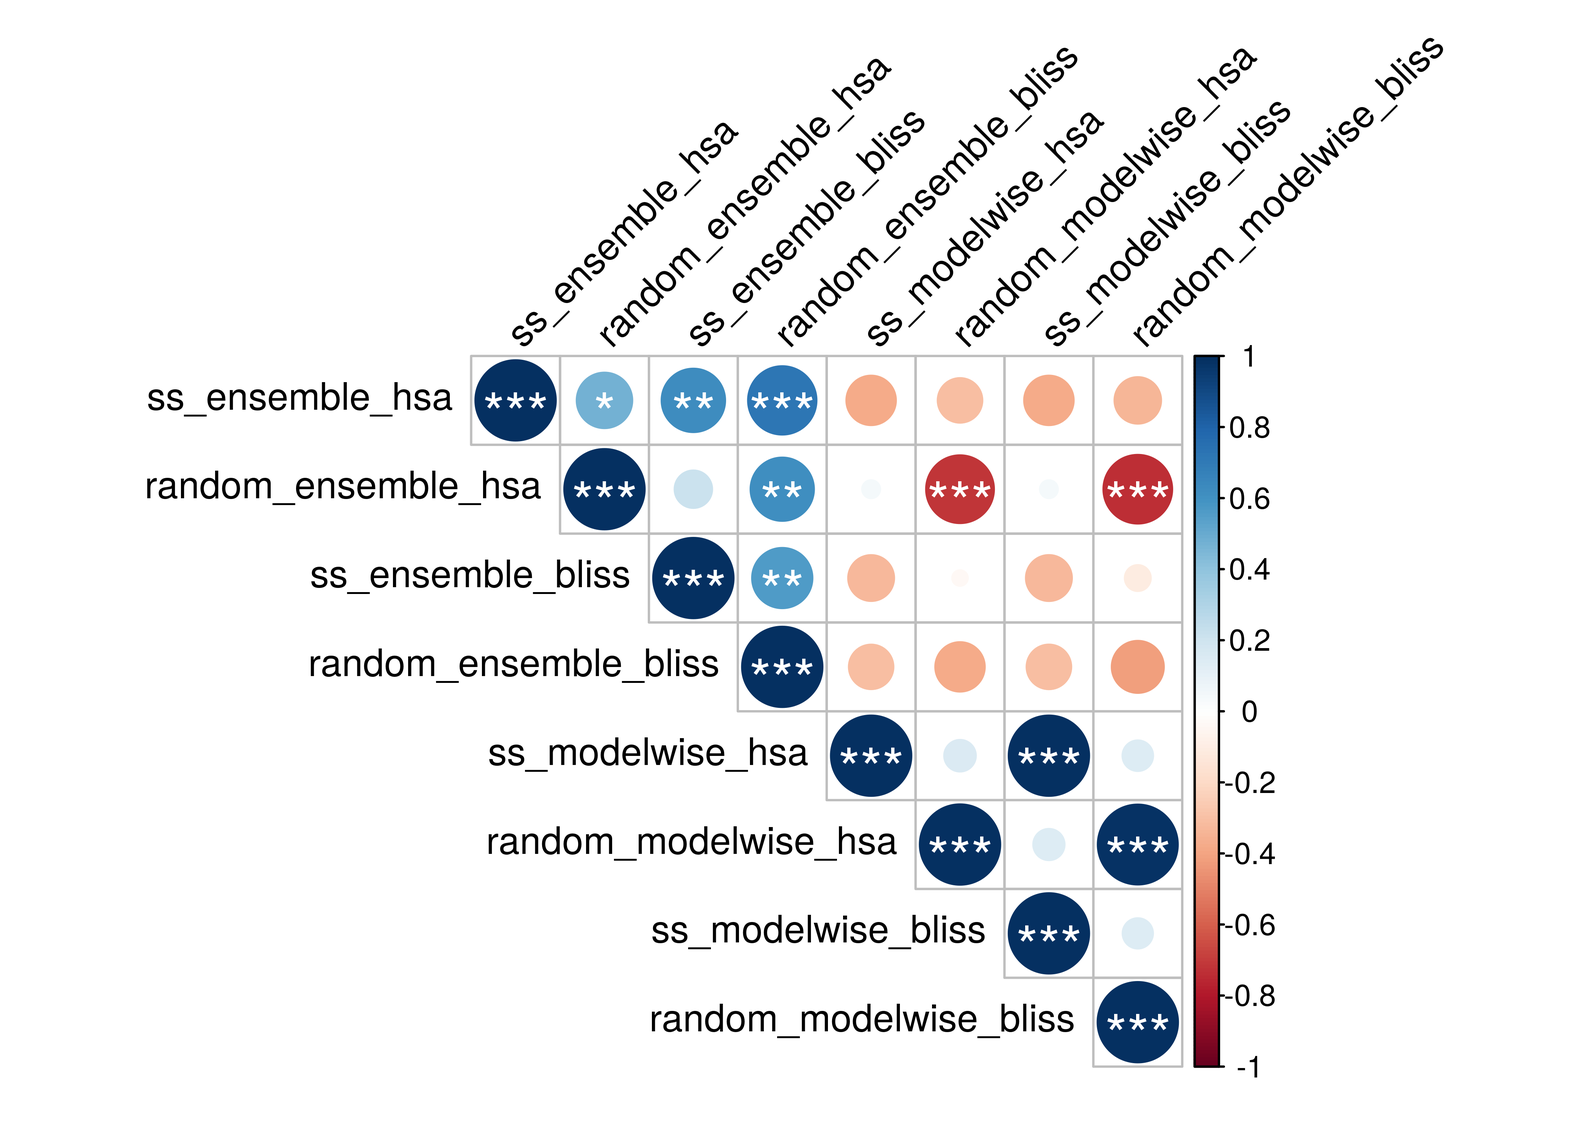
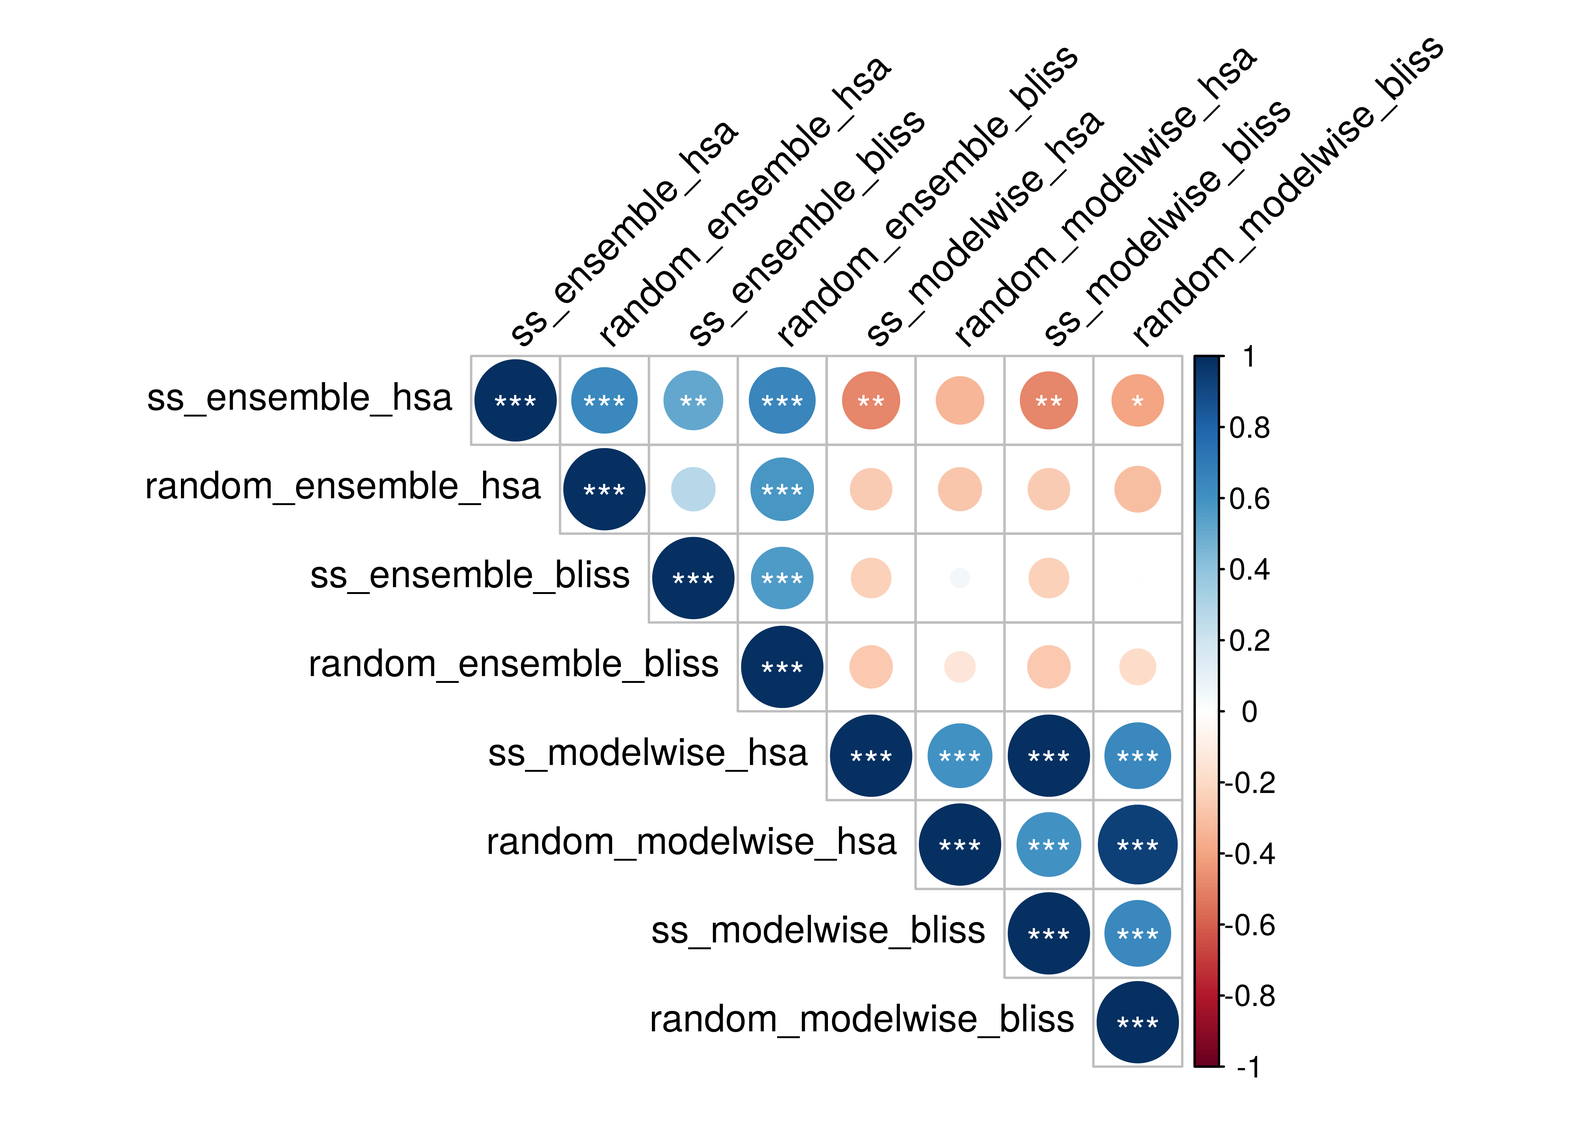
update cache and docs

diff --git a/docs/main.html b/docs/main.html
@@ -886,6 +886,7 @@ code span.wa { color: #60a0b0; font-weight: bold; font-style: italic; } /* Warni
 <li class="chapter" data-level="" data-path=""><a href="#roc-curves-3"><i class="fa fa-check"></i>ROC curves</a></li>
 <li class="chapter" data-level="" data-path=""><a href="#roc-auc-sensitivity-3"><i class="fa fa-check"></i>ROC AUC sensitivity</a></li>
 </ul></li>
+<li class="chapter" data-level="" data-path=""><a href="#correlation-1"><i class="fa fa-check"></i>Correlation</a></li>
 <li class="chapter" data-level="" data-path=""><a href="#fitness-vs-performance"><i class="fa fa-check"></i>Fitness vs performance</a></li>
 </ul></li>
 <li class="chapter" data-level="" data-path=""><a href="#reproduce-simulation-results"><i class="fa fa-check"></i>Reproduce simulation results</a>
@@ -1205,7 +1206,7 @@ code span.wa { color: #60a0b0; font-weight: bold; font-style: italic; } /* Warni
 <h2>Correlation</h2>
 <p>We test for correlation between all the results shown in the ROC curves.
 This means <em>ensemble-wise</em> vs <em>model-wise</em>, <em>random</em> models vs <em>calibrated (ss)</em> models and <em>HSA</em> vs <em>Bliss</em> synergy assessment.
-<em>P-values</em> are represented at 3 significant levels: <span class="math inline">\(0.05, 0.01, 0.001\)</span> (*, **, ***)</p>
+<em>P-values</em> are represented at 3 significant levels: <span class="math inline">\(0.05, 0.01, 0.001\)</span> (*, **, ***) and the correlation coefficient is calculated using Kendall’s <em>tau</em> statistic.</p>
 <div class="sourceCode" id="cb10"><pre class="sourceCode r"><code class="sourceCode r"><span id="cb10-1"><a href="#cb10-1"></a>synergy_scores =<span class="st"> </span><span class="kw">bind_cols</span>(</span>
 <span id="cb10-2"><a href="#cb10-2"></a>  pred_ew_hsa <span class="op">%&gt;%</span><span class="st"> </span><span class="kw">select</span>(ss_score, random_score) <span class="op">%&gt;%</span><span class="st"> </span><span class="kw">rename</span>(<span class="dt">ss_ensemble_hsa =</span> ss_score, <span class="dt">random_ensemble_hsa =</span> random_score),</span>
 <span id="cb10-3"><a href="#cb10-3"></a>  pred_ew_bliss <span class="op">%&gt;%</span><span class="st"> </span><span class="kw">select</span>(ss_score, random_score) <span class="op">%&gt;%</span><span class="st"> </span><span class="kw">rename</span>(<span class="dt">ss_ensemble_bliss =</span> ss_score, <span class="dt">random_ensemble_bliss =</span> random_score),</span>
@@ -1215,16 +1216,15 @@ This means <em>ensemble-wise</em> vs <em>model-wise</em>, <em>random</em> models
 <span id="cb10-7"><a href="#cb10-7"></a><span class="st">    </span><span class="kw">rename</span>(<span class="dt">ss_modelwise_bliss =</span> synergy_prob_ss, <span class="dt">random_modelwise_bliss =</span> synergy_prob_random)</span>
 <span id="cb10-8"><a href="#cb10-8"></a>  )</span>
 <span id="cb10-9"><a href="#cb10-9"></a></span>
-<span id="cb10-10"><a href="#cb10-10"></a>M =<span class="st"> </span><span class="kw">cor</span>(synergy_scores)</span>
-<span id="cb10-11"><a href="#cb10-11"></a>res =<span class="st"> </span><span class="kw">cor.mtest</span>(synergy_scores)</span>
+<span id="cb10-10"><a href="#cb10-10"></a>M =<span class="st"> </span><span class="kw">cor</span>(synergy_scores, <span class="dt">method =</span> <span class="st">&quot;kendall&quot;</span>)</span>
+<span id="cb10-11"><a href="#cb10-11"></a>res =<span class="st"> </span><span class="kw">cor.mtest</span>(synergy_scores, <span class="dt">method =</span> <span class="st">&quot;kendall&quot;</span>)</span>
 <span id="cb10-12"><a href="#cb10-12"></a><span class="kw">corrplot</span>(<span class="dt">corr =</span> M, <span class="dt">type =</span> <span class="st">&quot;upper&quot;</span>, <span class="dt">p.mat =</span> res<span class="op">$</span>p, <span class="dt">sig.level =</span> <span class="kw">c</span>(.<span class="dv">001</span>, <span class="fl">.01</span>, <span class="fl">.05</span>), </span>
-<span id="cb10-13"><a href="#cb10-13"></a>  <span class="dt">pch.cex =</span> <span class="fl">1.5</span>, <span class="dt">pch.col =</span> <span class="st">&quot;white&quot;</span>, <span class="dt">insig =</span> <span class="st">&quot;label_sig&quot;</span>, <span class="dt">tl.col =</span> <span class="st">&quot;black&quot;</span>, <span class="dt">tl.srt =</span> <span class="dv">45</span>)</span></code></pre></div>
+<span id="cb10-13"><a href="#cb10-13"></a>  <span class="dt">pch.cex =</span> <span class="dv">1</span>, <span class="dt">pch.col =</span> <span class="st">&quot;white&quot;</span>, <span class="dt">insig =</span> <span class="st">&quot;label_sig&quot;</span>, <span class="dt">tl.col =</span> <span class="st">&quot;black&quot;</span>, <span class="dt">tl.srt =</span> <span class="dv">45</span>)</span></code></pre></div>
 <p><img src="index_files/figure-html/Correlation%20of%20ROC%20results%20(Cascade%201.0)-1.png" width="2100" /></p>
 <div class="green-box">
 <ul>
-<li><strong>HSA and Bliss results correlate</strong> for both the model-wise and the ensemble-wise results</li>
-<li><strong>Model-wise results are in general different than the ensemble-wise ones</strong>.
-Only strong correlation is seen between the random models and not the calibrated ones.</li>
+<li><strong>HSA and Bliss results correlate</strong>, higher for the model-wise than the ensemble-wise results.</li>
+<li><strong>Model-wise don’t correlate with ensemble-wise results</strong>.</li>
 </ul>
 </div>
 </div>
@@ -1703,6 +1703,32 @@ We will combine the synergy scores from the random simulations with the results 
 </div>
 </div>
 </div>
+<div id="correlation-1" class="section level2 unnumbered" number="">
+<h2>Correlation</h2>
+<p>We test for correlation between some of the results shown in the ROC curves (the calibrated models are from the <span class="math inline">\(150\)</span> simulation results).
+This means <em>ensemble-wise</em> vs <em>model-wise</em>, <em>random</em> models vs <em>calibrated (ss)</em> models and <em>HSA</em> vs <em>Bliss</em> synergy assessment.
+<em>P-values</em> are represented at 3 significant levels: <span class="math inline">\(0.05, 0.01, 0.001\)</span> (*, **, ***) and the correlation coefficient is calculated using Kendall’s <em>tau</em> statistic.</p>
+<div class="sourceCode" id="cb20"><pre class="sourceCode r"><code class="sourceCode r"><span id="cb20-1"><a href="#cb20-1"></a>synergy_scores =<span class="st"> </span><span class="kw">bind_cols</span>(</span>
+<span id="cb20-2"><a href="#cb20-2"></a>  pred_ew_hsa <span class="op">%&gt;%</span><span class="st"> </span><span class="kw">select</span>(ss_score_100sim, random_score) <span class="op">%&gt;%</span><span class="st"> </span><span class="kw">rename</span>(<span class="dt">ss_ensemble_hsa =</span> ss_score_100sim, <span class="dt">random_ensemble_hsa =</span> random_score),</span>
+<span id="cb20-3"><a href="#cb20-3"></a>  pred_ew_bliss <span class="op">%&gt;%</span><span class="st"> </span><span class="kw">select</span>(ss_score_100sim, random_score) <span class="op">%&gt;%</span><span class="st"> </span><span class="kw">rename</span>(<span class="dt">ss_ensemble_bliss =</span> ss_score_100sim, <span class="dt">random_ensemble_bliss =</span> random_score),</span>
+<span id="cb20-4"><a href="#cb20-4"></a>  pred_mw_hsa <span class="op">%&gt;%</span><span class="st"> </span><span class="kw">select</span>(synergy_prob_ss_100sim, synergy_prob_random) <span class="op">%&gt;%</span><span class="st"> </span></span>
+<span id="cb20-5"><a href="#cb20-5"></a><span class="st">    </span><span class="kw">rename</span>(<span class="dt">ss_modelwise_hsa =</span> synergy_prob_ss_100sim, <span class="dt">random_modelwise_hsa =</span> synergy_prob_random),</span>
+<span id="cb20-6"><a href="#cb20-6"></a>  pred_mw_bliss <span class="op">%&gt;%</span><span class="st"> </span><span class="kw">select</span>(synergy_prob_ss_100sim, synergy_prob_random) <span class="op">%&gt;%</span><span class="st"> </span></span>
+<span id="cb20-7"><a href="#cb20-7"></a><span class="st">    </span><span class="kw">rename</span>(<span class="dt">ss_modelwise_bliss =</span> synergy_prob_ss_100sim, <span class="dt">random_modelwise_bliss =</span> synergy_prob_random)</span>
+<span id="cb20-8"><a href="#cb20-8"></a>  )</span>
+<span id="cb20-9"><a href="#cb20-9"></a></span>
+<span id="cb20-10"><a href="#cb20-10"></a>M =<span class="st"> </span><span class="kw">cor</span>(synergy_scores, <span class="dt">method =</span> <span class="st">&quot;kendall&quot;</span>)</span>
+<span id="cb20-11"><a href="#cb20-11"></a>res =<span class="st"> </span><span class="kw">cor.mtest</span>(<span class="dt">mat =</span> synergy_scores, <span class="dt">method =</span> <span class="st">&quot;kendall&quot;</span>)</span>
+<span id="cb20-12"><a href="#cb20-12"></a><span class="kw">corrplot</span>(<span class="dt">corr =</span> M, <span class="dt">type =</span><span class="st">&quot;upper&quot;</span>, <span class="dt">p.mat =</span> res<span class="op">$</span>p, <span class="dt">sig.level =</span> <span class="kw">c</span>(.<span class="dv">001</span>, <span class="fl">.01</span>, <span class="fl">.05</span>), </span>
+<span id="cb20-13"><a href="#cb20-13"></a>  <span class="dt">pch.cex =</span> <span class="dv">1</span>, <span class="dt">pch.col =</span> <span class="st">&quot;white&quot;</span>, <span class="dt">insig =</span> <span class="st">&quot;label_sig&quot;</span>, <span class="dt">tl.col =</span> <span class="st">&quot;black&quot;</span>, <span class="dt">tl.srt =</span> <span class="dv">45</span>)</span></code></pre></div>
+<p><img src="index_files/figure-html/Correlation%20of%20ROC%20results%20(Cascade%202.0)-1.png" width="2100" /></p>
+<div class="green-box">
+<ul>
+<li><strong>HSA and Bliss results correlate</strong>, especially for the model-wise results (ensemble-wise correlation is not as strong).</li>
+<li><strong>Model-wise don’t correlate with ensemble-wise results</strong>.</li>
+</ul>
+</div>
+</div>
 <div id="fitness-vs-performance" class="section level2 unnumbered" number="">
 <h2>Fitness vs performance</h2>
 <p>The idea here is to generate many training data files from the steady state as used in the simulations above for the AGS, where some of the nodes will have their states <em>flipped</em> to the opposite state (<span class="math inline">\(0\)</span> to <span class="math inline">\(1\)</span> and vice versa).
@@ -1758,7 +1784,7 @@ java -cp ../target/synergy-1.2.0-jar-with-dependencies.jar eu.druglogics.drabme.
 </div>
 <div id="r-session-info" class="section level1 unnumbered" number="">
 <h1>R session info</h1>
-<div class="sourceCode" id="cb23"><pre class="sourceCode r"><code class="sourceCode r"><span id="cb23-1"><a href="#cb23-1"></a>xfun<span class="op">::</span><span class="kw">session_info</span>()</span></code></pre></div>
+<div class="sourceCode" id="cb24"><pre class="sourceCode r"><code class="sourceCode r"><span id="cb24-1"><a href="#cb24-1"></a>xfun<span class="op">::</span><span class="kw">session_info</span>()</span></code></pre></div>
 <pre><code>R version 3.6.3 (2020-02-29)
 Platform: x86_64-pc-linux-gnu (64-bit)
 Running under: Ubuntu 18.04.4 LTS
@@ -1775,38 +1801,37 @@ Package version:
   assertthat_0.2.1    backports_1.1.6     base64enc_0.1.3    
   BH_1.72.0.3         bibtex_0.4.2.2      bookdown_0.18      
   callr_3.4.3         Ckmeans.1d.dp_4.3.2 cli_2.0.2          
-  clipr_0.7.0         codetools_0.2-16    colorspace_1.4-1   
-  compiler_3.6.3      corrplot_0.84       cowplot_1.0.0      
-  crayon_1.3.4        crosstalk_1.1.0.1   desc_1.2.0         
-  digest_0.6.25       dplyr_0.8.5         DT_0.13            
-  ellipsis_0.3.0      emba_0.1.4          evaluate_0.14      
-  fansi_0.4.1         farver_2.0.3        gbRd_0.4-11        
-  ggplot2_3.3.0       ggpubr_0.2.5        ggrepel_0.8.2      
-  ggsci_2.9           ggsignif_0.6.0      glue_1.4.0         
-  graphics_3.6.3      grDevices_3.6.3     grid_3.6.3         
-  gridExtra_2.3       gtable_0.3.0        highr_0.8          
-  hms_0.5.3           htmltools_0.4.0     htmlwidgets_1.5.1  
-  igraph_1.2.5        isoband_0.2.1       jsonlite_1.6.1     
-  knitr_1.28          labeling_0.3        later_1.0.0        
-  latex2exp_0.4.0     lattice_0.20.41     lazyeval_0.2.2     
-  lifecycle_0.2.0     magrittr_1.5        markdown_1.1       
-  MASS_7.3.51.5       Matrix_1.2.18       methods_3.6.3      
-  mgcv_1.8.31         mime_0.9            munsell_0.5.0      
-  nlme_3.1.145        pillar_1.4.3        pkgbuild_1.0.6     
-  pkgconfig_2.0.3     pkgload_1.0.2       plogr_0.2.0        
-  polynom_1.4.0       praise_1.0.0        prettyunits_1.1.1  
-  processx_3.4.2      promises_1.1.0      ps_1.3.2           
-  purrr_0.3.3         R6_2.4.1            RColorBrewer_1.1-2 
-  Rcpp_1.0.4.6        Rdpack_0.11-1       readr_1.3.1        
-  rje_1.10.15         rlang_0.4.5         rmarkdown_2.1      
-  rprojroot_1.3.2     rstudioapi_0.11     scales_1.1.0       
-  splines_3.6.3       stats_3.6.3         stringi_1.4.6      
-  stringr_1.4.0       testthat_2.3.2      tibble_3.0.0       
-  tidyr_1.0.2         tidyselect_1.0.0    tinytex_0.21       
-  tools_3.6.3         usefun_0.4.5        utf8_1.1.4         
-  utils_3.6.3         vctrs_0.2.4         viridisLite_0.3.0  
-  visNetwork_2.0.9    withr_2.1.2         xfun_0.12          
-  yaml_2.2.1         </code></pre>
+  clipr_0.7.0         colorspace_1.4-1    compiler_3.6.3     
+  corrplot_0.84       cowplot_1.0.0       crayon_1.3.4       
+  crosstalk_1.1.0.1   desc_1.2.0          digest_0.6.25      
+  dplyr_0.8.5         DT_0.13             ellipsis_0.3.0     
+  emba_0.1.4          evaluate_0.14       fansi_0.4.1        
+  farver_2.0.3        gbRd_0.4-11         ggplot2_3.3.0      
+  ggpubr_0.2.5        ggrepel_0.8.2       ggsci_2.9          
+  ggsignif_0.6.0      glue_1.4.0          graphics_3.6.3     
+  grDevices_3.6.3     grid_3.6.3          gridExtra_2.3      
+  gtable_0.3.0        highr_0.8           hms_0.5.3          
+  htmltools_0.4.0     htmlwidgets_1.5.1   igraph_1.2.5       
+  isoband_0.2.1       jsonlite_1.6.1      knitr_1.28         
+  labeling_0.3        later_1.0.0         latex2exp_0.4.0    
+  lattice_0.20.41     lazyeval_0.2.2      lifecycle_0.2.0    
+  magrittr_1.5        markdown_1.1        MASS_7.3.51.5      
+  Matrix_1.2.18       methods_3.6.3       mgcv_1.8.31        
+  mime_0.9            munsell_0.5.0       nlme_3.1.145       
+  pillar_1.4.3        pkgbuild_1.0.6      pkgconfig_2.0.3    
+  pkgload_1.0.2       plogr_0.2.0         polynom_1.4.0      
+  praise_1.0.0        prettyunits_1.1.1   processx_3.4.2     
+  promises_1.1.0      ps_1.3.2            purrr_0.3.3        
+  R6_2.4.1            RColorBrewer_1.1-2  Rcpp_1.0.4.6       
+  Rdpack_0.11-1       readr_1.3.1         rje_1.10.15        
+  rlang_0.4.5         rmarkdown_2.1       rprojroot_1.3.2    
+  rstudioapi_0.11     scales_1.1.0        splines_3.6.3      
+  stats_3.6.3         stringi_1.4.6       stringr_1.4.0      
+  testthat_2.3.2      tibble_3.0.0        tidyr_1.0.2        
+  tidyselect_1.0.0    tinytex_0.21        tools_3.6.3        
+  usefun_0.4.5        utf8_1.1.4          utils_3.6.3        
+  vctrs_0.2.4         viridisLite_0.3.0   visNetwork_2.0.9   
+  withr_2.1.2         xfun_0.12           yaml_2.2.1         </code></pre>
 </div>
 <div id="references" class="section level1 unnumbered" number="">
 <h1>References</h1>

diff --git a/docs/index.md b/docs/index.md
@@ -319,7 +319,7 @@ ggline(data = df_mw, x = "weights", y = "auc_values_mw", numeric.x.axis = TRUE,
 
 We test for correlation between all the results shown in the ROC curves.
 This means *ensemble-wise* vs *model-wise*, *random* models vs *calibrated (ss)* models and *HSA* vs *Bliss* synergy assessment.
-*P-values* are represented at 3 significant levels: $0.05, 0.01, 0.001$ (\*, \*\*, \*\*\*)
+*P-values* are represented at 3 significant levels: $0.05, 0.01, 0.001$ (\*, \*\*, \*\*\*) and the correlation coefficient is calculated using Kendall's *tau* statistic.
 
 
 ```r
@@ -332,18 +332,17 @@ synergy_scores = bind_cols(
     rename(ss_modelwise_bliss = synergy_prob_ss, random_modelwise_bliss = synergy_prob_random)
   )
 
-M = cor(synergy_scores)
-res = cor.mtest(synergy_scores)
+M = cor(synergy_scores, method = "kendall")
+res = cor.mtest(synergy_scores, method = "kendall")
 corrplot(corr = M, type = "upper", p.mat = res$p, sig.level = c(.001, .01, .05), 
-  pch.cex = 1.5, pch.col = "white", insig = "label_sig", tl.col = "black", tl.srt = 45)
+  pch.cex = 1, pch.col = "white", insig = "label_sig", tl.col = "black", tl.srt = 45)
 ```
 
 <img src="index_files/figure-html/Correlation of ROC results (Cascade 1.0)-1.png" width="2100" />
 
 :::{.green-box}
-- **HSA and Bliss results correlate** for both the model-wise and the ensemble-wise results
-- **Model-wise results are in general different than the ensemble-wise ones**. 
-Only strong correlation is seen between the random models and not the calibrated ones.
+- **HSA and Bliss results correlate**, higher for the model-wise than the ensemble-wise results.
+- **Model-wise don't correlate with ensemble-wise results**.
 :::
 
 ## Fitness Evolution {-}
@@ -854,8 +853,35 @@ ggline(data = df_mw, x = "weights", y = "auc_values_mw", numeric.x.axis = TRUE,
 - Using the $\beta$ parameter to boost the ensemble synergy results works only for the HSA results (not the Bliss-based ones)
 :::
 
+## Correlation {-}
+
+We test for correlation between some of the results shown in the ROC curves (the calibrated models are from the $150$ simulation results).
+This means *ensemble-wise* vs *model-wise*, *random* models vs *calibrated (ss)* models and *HSA* vs *Bliss* synergy assessment.
+*P-values* are represented at 3 significant levels: $0.05, 0.01, 0.001$ (\*, \*\*, \*\*\*) and the correlation coefficient is calculated using Kendall's *tau* statistic.
 
 
+```r
+synergy_scores = bind_cols(
+  pred_ew_hsa %>% select(ss_score_100sim, random_score) %>% rename(ss_ensemble_hsa = ss_score_100sim, random_ensemble_hsa = random_score),
+  pred_ew_bliss %>% select(ss_score_100sim, random_score) %>% rename(ss_ensemble_bliss = ss_score_100sim, random_ensemble_bliss = random_score),
+  pred_mw_hsa %>% select(synergy_prob_ss_100sim, synergy_prob_random) %>% 
+    rename(ss_modelwise_hsa = synergy_prob_ss_100sim, random_modelwise_hsa = synergy_prob_random),
+  pred_mw_bliss %>% select(synergy_prob_ss_100sim, synergy_prob_random) %>% 
+    rename(ss_modelwise_bliss = synergy_prob_ss_100sim, random_modelwise_bliss = synergy_prob_random)
+  )
+
+M = cor(synergy_scores, method = "kendall")
+res = cor.mtest(mat = synergy_scores, method = "kendall")
+corrplot(corr = M, type ="upper", p.mat = res$p, sig.level = c(.001, .01, .05), 
+  pch.cex = 1, pch.col = "white", insig = "label_sig", tl.col = "black", tl.srt = 45)
+```
+
+<img src="index_files/figure-html/Correlation of ROC results (Cascade 2.0)-1.png" width="2100" />
+
+:::{.green-box}
+- **HSA and Bliss results correlate**, especially for the model-wise results (ensemble-wise correlation is not as strong).
+- **Model-wise don't correlate with ensemble-wise results**.
+:::
 
 
 
@@ -950,38 +976,37 @@ Package version:
   assertthat_0.2.1    backports_1.1.6     base64enc_0.1.3    
   BH_1.72.0.3         bibtex_0.4.2.2      bookdown_0.18      
   callr_3.4.3         Ckmeans.1d.dp_4.3.2 cli_2.0.2          
-  clipr_0.7.0         codetools_0.2-16    colorspace_1.4-1   
-  compiler_3.6.3      corrplot_0.84       cowplot_1.0.0      
-  crayon_1.3.4        crosstalk_1.1.0.1   desc_1.2.0         
-  digest_0.6.25       dplyr_0.8.5         DT_0.13            
-  ellipsis_0.3.0      emba_0.1.4          evaluate_0.14      
-  fansi_0.4.1         farver_2.0.3        gbRd_0.4-11        
-  ggplot2_3.3.0       ggpubr_0.2.5        ggrepel_0.8.2      
-  ggsci_2.9           ggsignif_0.6.0      glue_1.4.0         
-  graphics_3.6.3      grDevices_3.6.3     grid_3.6.3         
-  gridExtra_2.3       gtable_0.3.0        highr_0.8          
-  hms_0.5.3           htmltools_0.4.0     htmlwidgets_1.5.1  
-  igraph_1.2.5        isoband_0.2.1       jsonlite_1.6.1     
-  knitr_1.28          labeling_0.3        later_1.0.0        
-  latex2exp_0.4.0     lattice_0.20.41     lazyeval_0.2.2     
-  lifecycle_0.2.0     magrittr_1.5        markdown_1.1       
-  MASS_7.3.51.5       Matrix_1.2.18       methods_3.6.3      
-  mgcv_1.8.31         mime_0.9            munsell_0.5.0      
-  nlme_3.1.145        pillar_1.4.3        pkgbuild_1.0.6     
-  pkgconfig_2.0.3     pkgload_1.0.2       plogr_0.2.0        
-  polynom_1.4.0       praise_1.0.0        prettyunits_1.1.1  
-  processx_3.4.2      promises_1.1.0      ps_1.3.2           
-  purrr_0.3.3         R6_2.4.1            RColorBrewer_1.1-2 
-  Rcpp_1.0.4.6        Rdpack_0.11-1       readr_1.3.1        
-  rje_1.10.15         rlang_0.4.5         rmarkdown_2.1      
-  rprojroot_1.3.2     rstudioapi_0.11     scales_1.1.0       
-  splines_3.6.3       stats_3.6.3         stringi_1.4.6      
-  stringr_1.4.0       testthat_2.3.2      tibble_3.0.0       
-  tidyr_1.0.2         tidyselect_1.0.0    tinytex_0.21       
-  tools_3.6.3         usefun_0.4.5        utf8_1.1.4         
-  utils_3.6.3         vctrs_0.2.4         viridisLite_0.3.0  
-  visNetwork_2.0.9    withr_2.1.2         xfun_0.12          
-  yaml_2.2.1         
+  clipr_0.7.0         colorspace_1.4-1    compiler_3.6.3     
+  corrplot_0.84       cowplot_1.0.0       crayon_1.3.4       
+  crosstalk_1.1.0.1   desc_1.2.0          digest_0.6.25      
+  dplyr_0.8.5         DT_0.13             ellipsis_0.3.0     
+  emba_0.1.4          evaluate_0.14       fansi_0.4.1        
+  farver_2.0.3        gbRd_0.4-11         ggplot2_3.3.0      
+  ggpubr_0.2.5        ggrepel_0.8.2       ggsci_2.9          
+  ggsignif_0.6.0      glue_1.4.0          graphics_3.6.3     
+  grDevices_3.6.3     grid_3.6.3          gridExtra_2.3      
+  gtable_0.3.0        highr_0.8           hms_0.5.3          
+  htmltools_0.4.0     htmlwidgets_1.5.1   igraph_1.2.5       
+  isoband_0.2.1       jsonlite_1.6.1      knitr_1.28         
+  labeling_0.3        later_1.0.0         latex2exp_0.4.0    
+  lattice_0.20.41     lazyeval_0.2.2      lifecycle_0.2.0    
+  magrittr_1.5        markdown_1.1        MASS_7.3.51.5      
+  Matrix_1.2.18       methods_3.6.3       mgcv_1.8.31        
+  mime_0.9            munsell_0.5.0       nlme_3.1.145       
+  pillar_1.4.3        pkgbuild_1.0.6      pkgconfig_2.0.3    
+  pkgload_1.0.2       plogr_0.2.0         polynom_1.4.0      
+  praise_1.0.0        prettyunits_1.1.1   processx_3.4.2     
+  promises_1.1.0      ps_1.3.2            purrr_0.3.3        
+  R6_2.4.1            RColorBrewer_1.1-2  Rcpp_1.0.4.6       
+  Rdpack_0.11-1       readr_1.3.1         rje_1.10.15        
+  rlang_0.4.5         rmarkdown_2.1       rprojroot_1.3.2    
+  rstudioapi_0.11     scales_1.1.0        splines_3.6.3      
+  stats_3.6.3         stringi_1.4.6       stringr_1.4.0      
+  testthat_2.3.2      tibble_3.0.0        tidyr_1.0.2        
+  tidyselect_1.0.0    tinytex_0.21        tools_3.6.3        
+  usefun_0.4.5        utf8_1.1.4          utils_3.6.3        
+  vctrs_0.2.4         viridisLite_0.3.0   visNetwork_2.0.9   
+  withr_2.1.2         xfun_0.12           yaml_2.2.1         
 ```
 
 # References {-}
